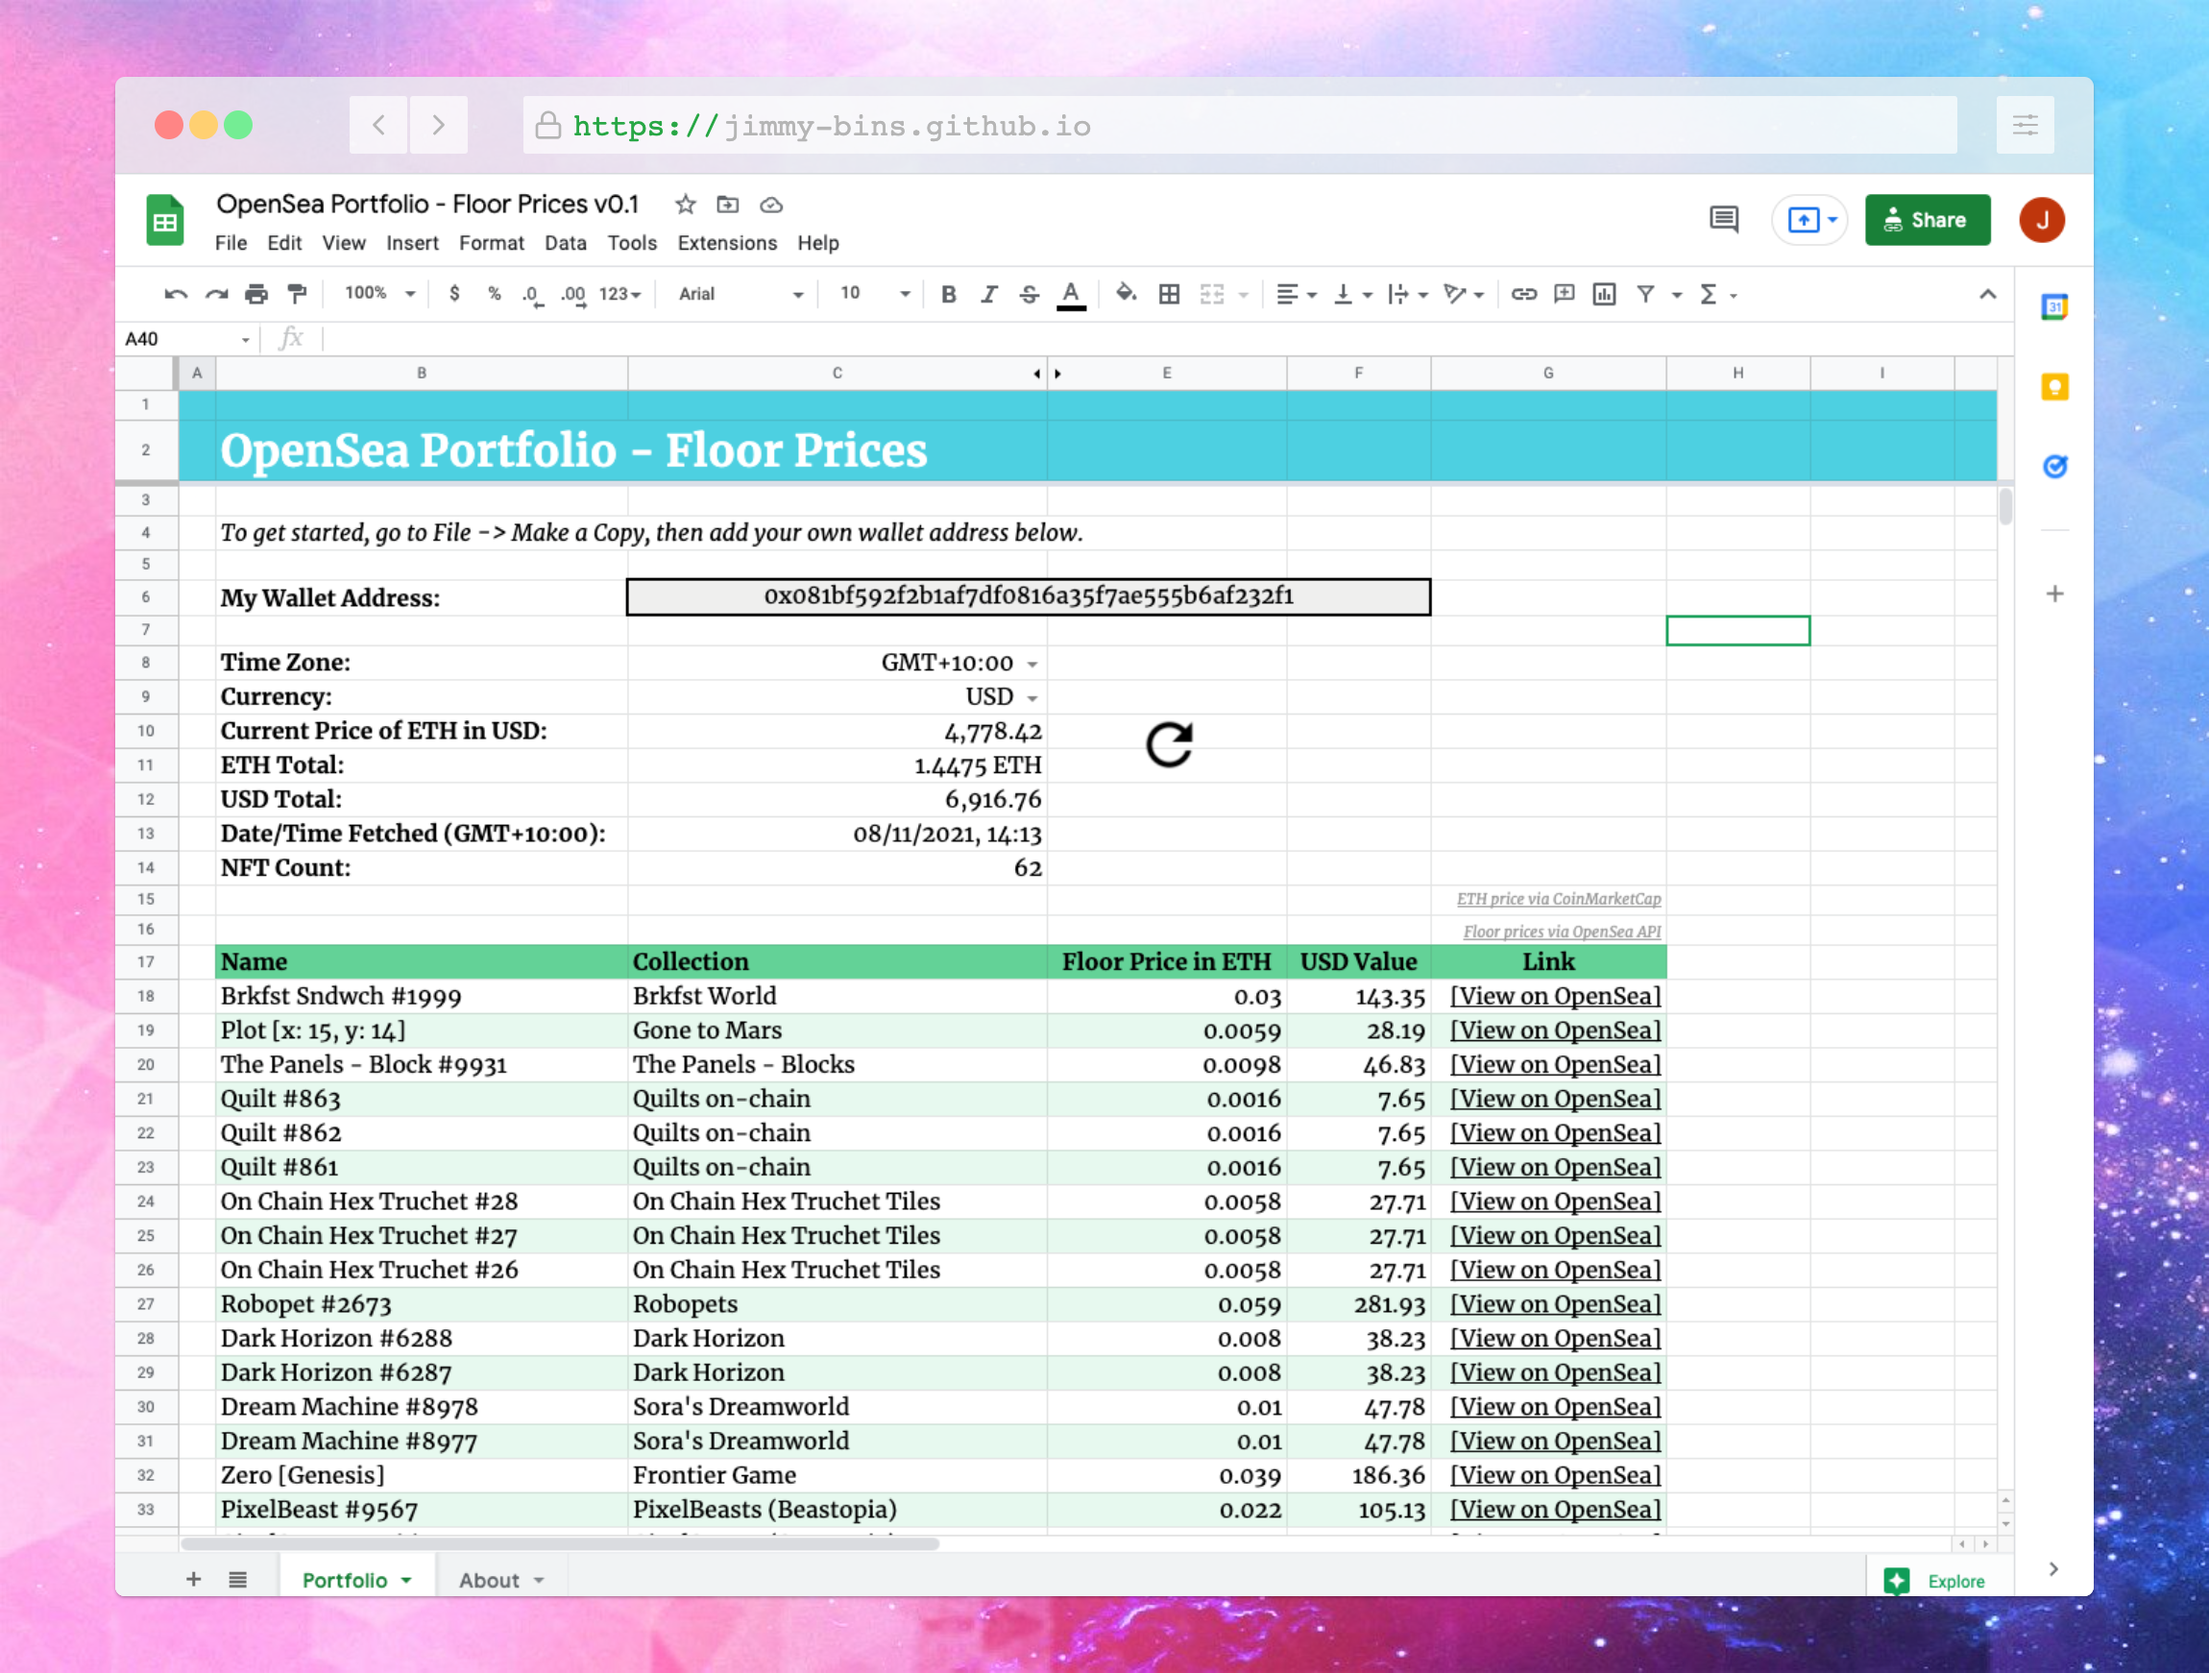
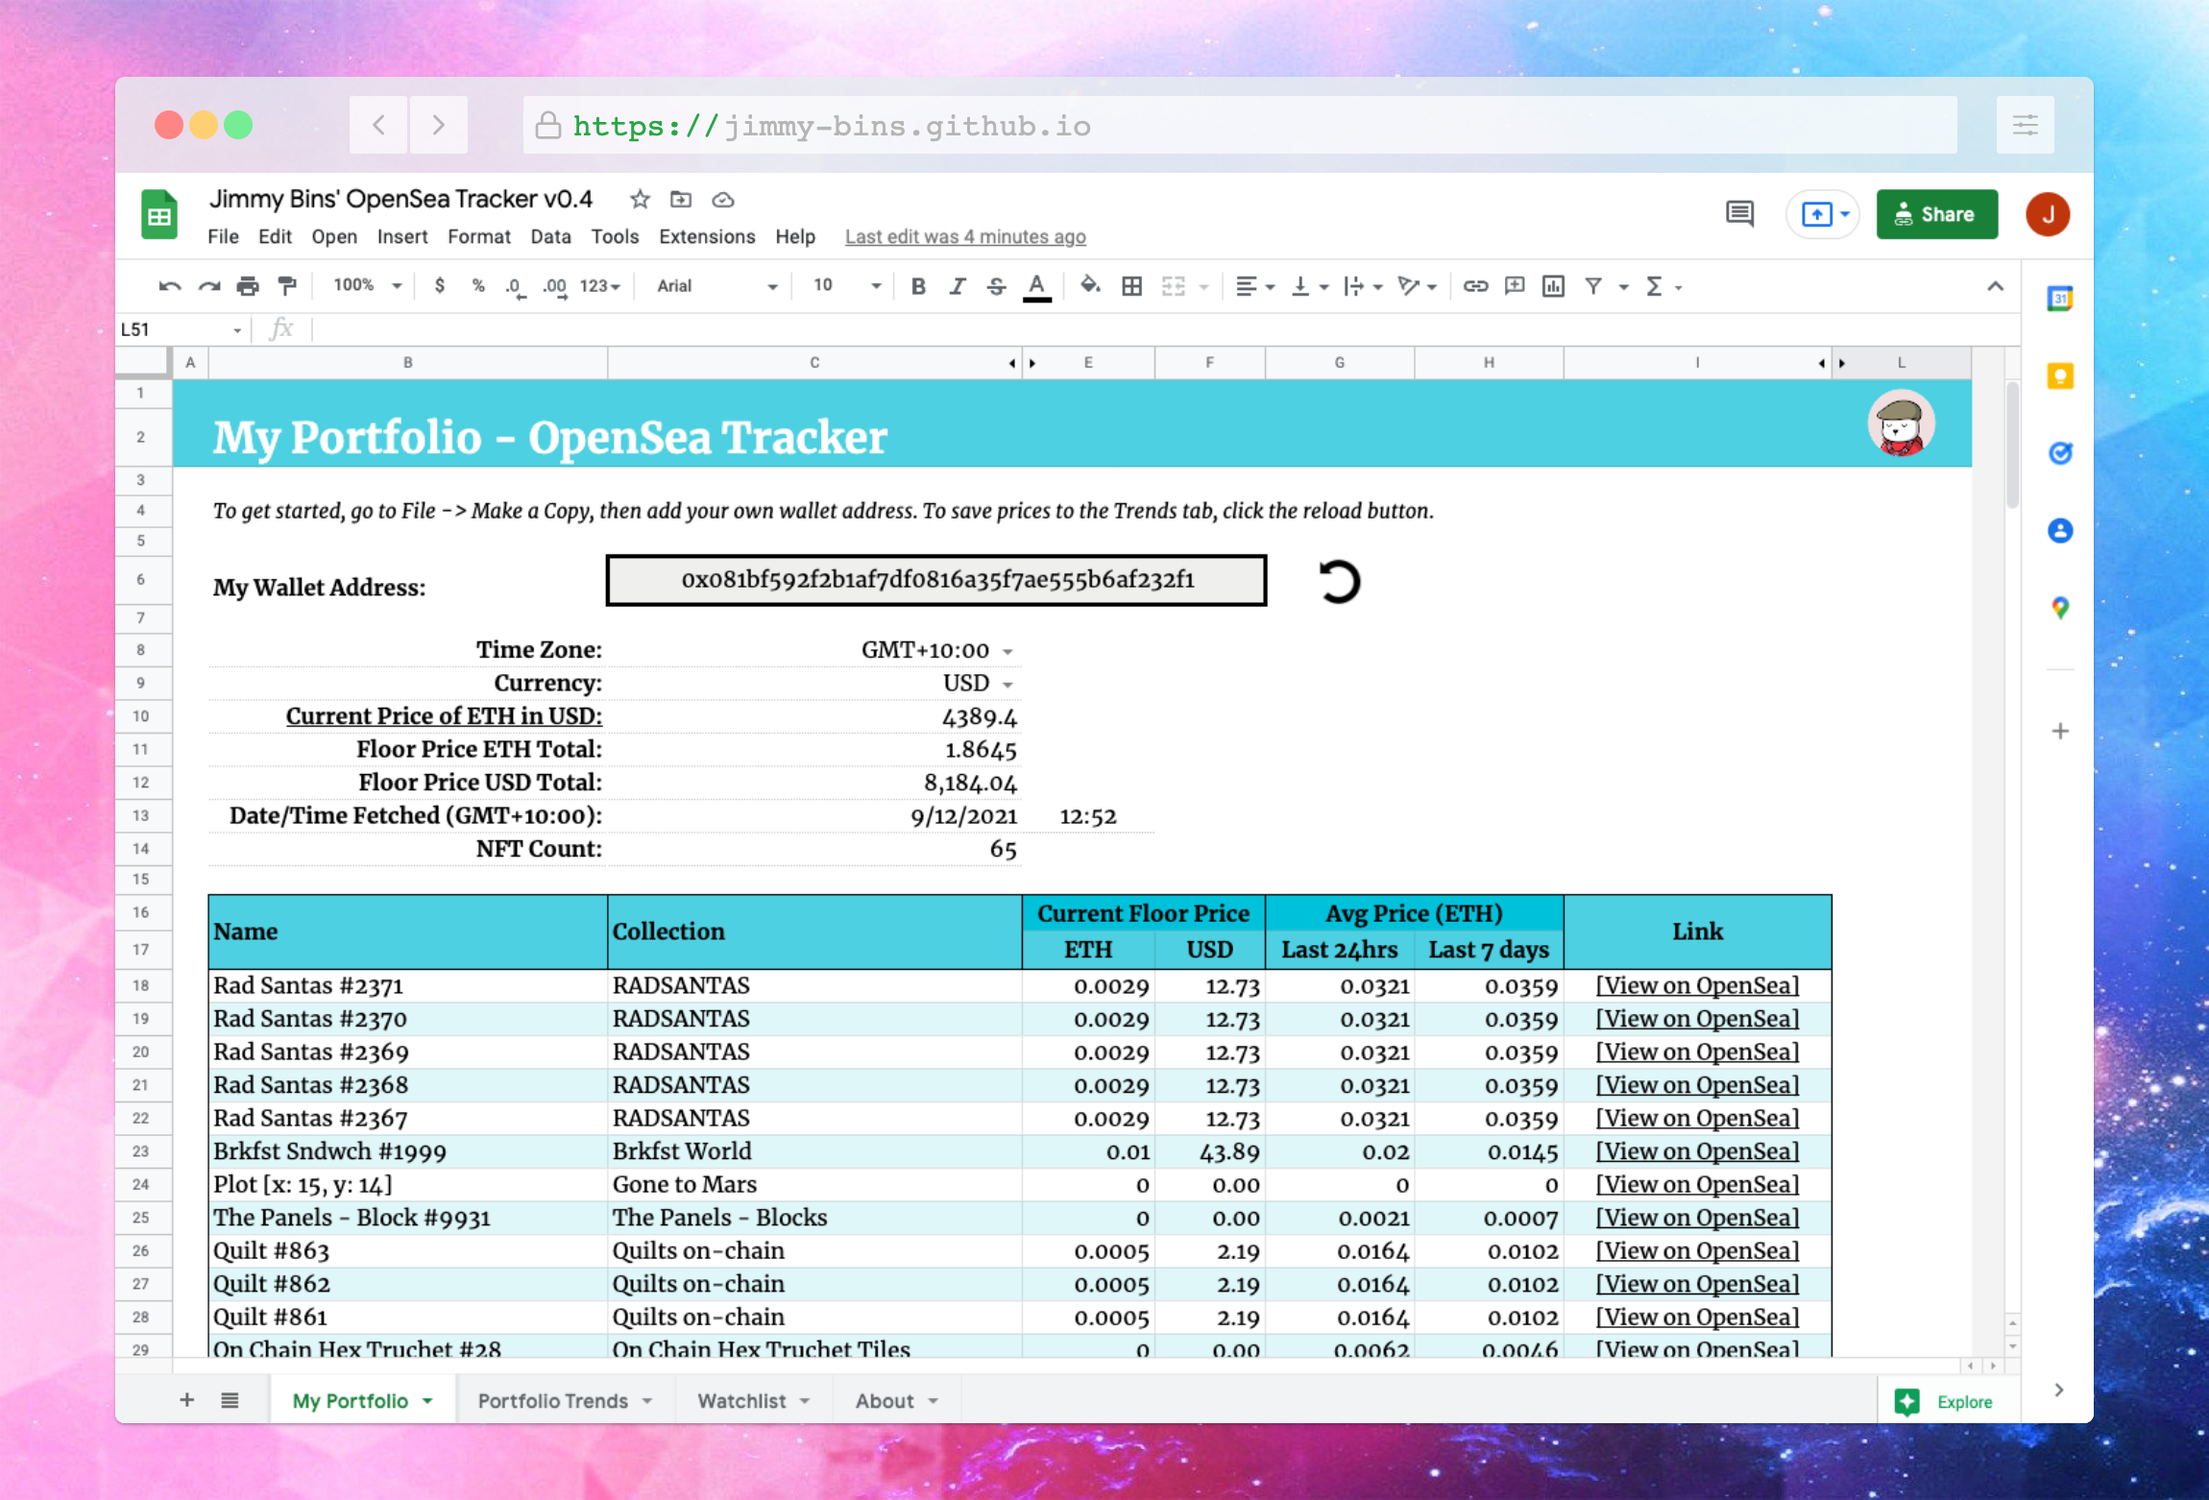
update to new Google Sheet v0.4

diff --git a/README.md b/README.md
@@ -12,9 +12,9 @@
 
 A list of my current work.
 
-## OpenSea Portfolio - Floor Prices (Google Sheet)
+## Jimmy Bins' OpenSea Tracker v0.4 (Google Sheet)
 
-Access here: [OpenSea Portfolio - Floor Prices (Google Sheet)](https://docs.google.com/spreadsheets/d/1gRqTrFS0BR6LTgnn8lv_baqEqUIOYhe2avEZ47QLj60/edit?usp=sharing)
+Access here: [Jimmy Bins' OpenSea Tracker v0.4 (Google Sheet)](https://docs.google.com/spreadsheets/d/1fF8B0pl00chUApp_OQgIq_Q2sZkZQYmW4xtvMEwZV_Q/edit?usp=sharing)
 
 This Google Sheet is a good way to get a ballpark estimate of your current NFT portfolio. You add your wallet address and it fetches the current price of ETH, the public items in your wallet & current floor prices on OpenSea, then gives you a total value. 
 
